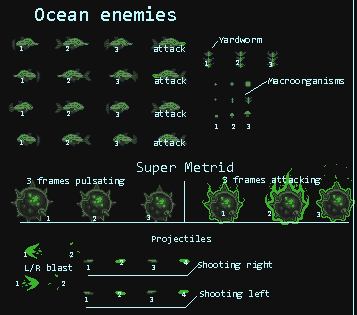
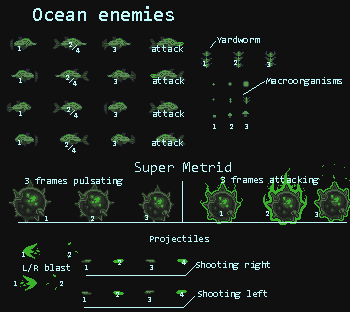
Ocean Doc

diff --git a/README.md b/README.md
@@ -14,42 +14,46 @@ Classic shooter flipped upside down as you descend into the life filled oceans o
   <p>
   The limitation is \'health as a tool\'. The harmful macroorganisms will spawn more when you have high health and helpful macroorganisms when you have low health.  High health could also lessen the cooldown of your weapons so it's a give and take.
   </p>
-  <img src = 'public/assets/bubble.png'>
+  <img src = 'public/assets/bubble.png'><br />
 <h2>Player</h2>
 <img src = 'doc/assets/player.png'>
   <h3>Subs</h3>
   <p>The ships are shown here with the first on the bottom the second on the middle and the final ship on the top. New ships are found at a dock and you dock your current ship to take off in the new one. Use bubble.png and particles for propusion.</p>
-  <h3>Projectiles</h3>
+  <h3>Firing</h3>
+  <p>Opening frame (2) is used to transition from idle to the firing frame for weapon in use</p>
   <p>The blast originates from the user. Smallest laser shoots single shot of med size laset beam. Med laser shoots one med laser and then rapid full auto fire of smallest laser. fire rate could depend on health per the limitation.
   </p>
   <p>Torpedoes use particle generatior of steam.png at origin and explosion.png at target. Large torpedo has 2 frame blink.</p>
   <h3>Landing</h3>
-  <p>Only the final sub is able to land. Frame 3 serves as idle when landed.
+  <p>Only the final sub is able to land. Frame 1 shown here is normal idle. Frame 2 is transitional. Frame 3 serves as idle when landed.
   </p>
   <h3>Powerups</h3>
   <p>Macroorganisms with the blue glow give health. Other powerups give new weapons
   </p>
-  <img src = 'public/assets/bubble.png'>
+  </p>
+  <img src = 'public/assets/bubble.png'><br />
 <h2>Open ocean</h2>
 <img src = 'doc/assets/ocean.png'>
-  <p>Coming soon</p>
-  <h3>...</h3>
-  <p>...</p>
+  <p>Fish with noses ram the player. Shoort nose fishes shoot projectiles. Swimming animation sequence is 1,2,3,2</p>
+  <p>Yardwork lives on th ewalls and has 3 fram animation to crawl up and down</p>
+  <p>Harmful Macroorganisms will spawn more often when health is high and will hurt the player
+  <h3>Super Metrid</h3>
+  <p>Boss Fight! Lots of health. Idle pulsating animation is 123,123. Attack animation is also 123,123</p>
 <h2>Deep ocean</h2>
 <img src = 'doc/assets/deep.png'>
   <p>Coming soon</p>
-  <img src = 'public/assets/bubble.png'>
+  <img src = 'public/assets/bubble.png'><br />
 
 <h2>Base</h2>
 <img src = 'doc/assets/base.png'>
   <p>Coming soon</p>
-  <img src = 'public/assets/bubble.png'>
+  <img src = 'public/assets/bubble.png'><br />
 
 <h2>Other assets and Tilesets</h2>
 <img src = 'doc/assets/rock.png'>
 <img src = 'doc/assets/metroidvania.png'>
   <p>Coming soon</p>
-  <img src = 'public/assets/bubble.png'>
+  <img src = 'public/assets/bubble.png'><br />
 
 <!--
 ###########################################################################
